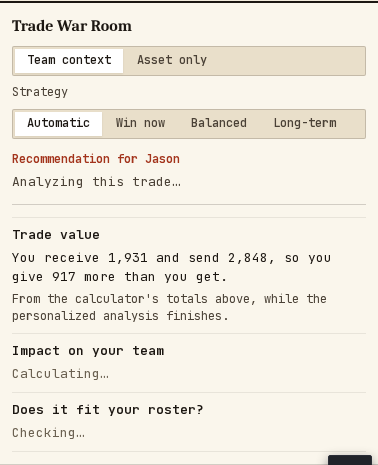
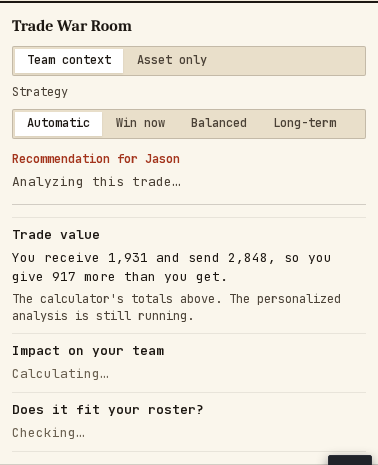
docs: War Room clarity screenshots and ledger after the review fixes
Claude-Session: https://claude.ai/code/session_014i32om8NBcCJA9qgHBoHLi

Changed region(s): [[0.0291, 0.6323, 0.6402, 0.6925], [0.6693, 0.6323, 0.9021, 0.6624]]

diff --git a/docs/ui/UI_PARALLEL_LEDGER.md b/docs/ui/UI_PARALLEL_LEDGER.md
@@ -61,7 +61,7 @@ its old open claim is not an active writer, but independent live overlaps still 
 | `shell / nav / command` | C8-U2/U3 | AppShell, AppShellWrapper, nav-model, auth owner | Existing shared IA; serving files overlap | AUDITED — Top/mobile chrome PSI-scoped | Code inspected; NV | Parity NV | Existing suite; route NV | NM | Retirement not re-certified | No fresh production screenshots | No active writer (#1346 closed unmerged) | One IA; auth and public/private boundaries | Re-certify focus/search/mobile parity; separately claim shared fixes |
 | `/rankings` | C8-U2 reference | useApp/useDynastyData -> canonical /api/data | Existing consumer; #1411 merged, #1346 closed unmerged (was "#1411/#1346 upstream changes") | DEPLOYED (#1520 `20d1d3c0d`, 2026-09-30; production NV) — was FEATURE_GREEN (local) on `claude/ui-rankings-player-reference`: expanded audit row migrated off legacy dark palette, mobile Value on-screen at 390, retired confidence/λ·MAD copy replaced, board-built vs scrape clocks, "none" ≠ Low, value explainers (lib/value-explainers.js) | Local 1366x900 before/after screenshots (`docs/psi/evidence/C8U2_RANKINGS_PLAYER_2026-09-29/`); production NV | Local 390x844: table fits (Value x=315–383, was x=497), expanded row wraps; production NV | Local axe 0 on populated board, EXPANDED row (was 283/217 contrast nodes) and How-rankings-work dialog (was scrollable-region-focusable); keyboard row expand/InfoTip/dialog walkthrough; psi-rankings-player-a11y + mobile-touch-targets 16/16 locally; #1438 CI evidence stands; row `aria-expanded` missing (DataTable-owned, reported) | NM (bundle 60.4/75 KB) | `source-audit-*` / `rankings-audit-row` paint in globals.css now has no rankings consumer — retirement pending globals.css custodian | Local only; no production screenshots | #1520 merged `20d1d3c0d` (was branch `claude/ui-rankings-player-reference`, PR pending); #1438 merged | Stable consumer boundary; no valuation duplication | Integration + deploy + production re-certification; DataTable row aria-expanded (perf/DS lane) |
 | `/players/[playerId]` | C8-U2 reference | Canonical AppShell rows / player identity + player-file-model | Existing contract; next feature boundary needs audit | DEPLOYED (#1520 `20d1d3c0d`; #1578 `2baaafb5f`; production NV) — was FEATURE_GREEN (local) on the same branch: value chain ends on the published value (offense no longer shows the IDPTC anchor diagnostic), non-voting KTC keys out of the breakdown with KTC Market as a named benchmark, Confidence tile always rendered + "Why this confidence" (backend axes/reasons), per-source freshness (weight here, content-as-of vs last fetched), off-cap rank labelled display order, "How values work" dialog | Local 1366x900 screenshots (Overview/Market/Performance/Intel); production NV | Local 390x844 full-page Overview + Market; production NV | Local axe 0 on all tabs incl. new Market freshness panel + open InfoTip, both viewports; #1438 matrix 16/16 locally; production NV | NM | Retirement not re-certified | Local only; no production screenshots | #1520 merged `20d1d3c0d` (was branch `claude/ui-rankings-player-reference`, PR pending); #1438 merged. Lane 6 / #1555 Batch 2: `claude/lane6-explanation-ui` (merged #1578 `2baaafb5f`; backend #1576 `149b5b250`) adds the collapsed, lazily loaded "How this value was computed" Market-tab panel rendering value-explain/v2 (estimator, exact-vs-approximate attribution, per-source fetch / as-of / confirmed-change clocks with explicit unknowns, exclusion reasons, non-additive leave-one-out); Signals seam: #1572 merged `a1933e596` | One player experience; preserve identity | Integration + deploy + production re-certification |
-| `/trade` | C3 + C8-U2 | Existing trade-logic + /api/trade/* canonical owners | CONDITIONAL: #1414/#1415 lifecycle/quantity/analysis | FEATURE_GREEN (local, War Room clarity on `claude/trade-war-room-clarity`, PR #1827 stacked on TC-E #1824; not merged, production NV) — owner directive 2026-10-19 Part 1 + Part 4 frontend: plain-English War Room (the backend decision is the only recommendation; two backend reasons; Trade value / Impact on your team / Does it fit your roster?; detail behind four rule-drawn disclosures; no all-caps labels; the legacy global `th` rule neutralised in the War Room tables), calculator trade value shown at once while the analysis runs (never a provisional YES / NO), immediate stale-request abort, 90 s bound with Retry, 3+-team notice owned by the War Room; default War Room height 1,253 → 638 px at 1366 and 1,620 → 885 px at 390 on the same payload; before/after in `docs/trade/war-room-clarity-2026-10-19/`. Before that: FEATURE_GREEN (local, TC-E on `claude/trade-calculator-tc-e`, PR to main; not merged, production NV) — keyboard combobox builder, shared focus ring on the active option / search input / section nav, More + Import return focus, meter and verdict screen-reader semantics, one polite final-decision announcement (design choice), error-with-retry / partial / loading states, request sequencing on every /trade read; `/trade` 82.2 → 86.7 KB of 93; populated-trade axe in `trade-tce.spec.js` (desktop + phone). Before that: FEATURE_GREEN (local, TC-D2 on `claude/trade-calculator-tc-b2-d2`, PR stacked on train 8 #1809; not merged, production NV) — phone builder bottom sheets (ds Drawer re-anchored), toolbar "More" group, Supporting-intelligence drilldown tabs (Value / Roster / Season / Market / Reasoning), Simulate impact in the Roster tab, persistent 3+-team summary, routed asset rows wrap instead of clipping names on phones, Second Opinions "Unavailable — reason" rows (owner decision 9), "My league" control removed; before/after 1440x900 + 375x812 in `docs/trade/tc-d2-2026-10-18/`; 1920 cap = OWNER UI DECISION (no wide-shell token), FAB overlap = shell lane. Before that: FEATURE_GREEN (local, TC-D1 `ecbde07821` on `claude/trade-calculator-tc-d`, stacked on TC-B #1800; not merged, production NV) — five-layer workspace: builder → immediate result (DataTable raw/VA/adjusted + meter) → War Room → supporting intelligence → ideas & tools; desktop sticky result + decision echo; mobile section nav, quick-add in flow, verdict bar carries the War Room decision word. Was: AUDITED — PSI code; #1294 merged September 9 | Local real-stack Playwright 1366x900 / 1024x768 / 1920x1080 before/after screenshots (session scratchpad, not committed); decision echo at y=639 at 1366x900 (War Room headline was y=877, meter y=1,917); no horizontal scroll; production NV. Was: Code inspected; NV | Local real-stack 390x844 / 360x780 screenshots; no horizontal scroll; fixed chrome 219 px (was 235: quick-add no longer sticky, sticky 44 px section nav added); production NV. Was: Parity NV | trade-war-room-clarity.spec axe (WCAG 2.0/2.1 A + AA, War Room region, every disclosure open) PASS on desktop-1366 + mobile-chromium locally; no sideways scroll at 1366 / 390 / 375; 6 local runs x 8 War Room / TC-E specs, `--retries=0`, all green. Before that: trade-war-room.spec axe (WCAG 2.1 AA, War Room region) PASS on desktop-1366 + mobile-chromium locally; section-nav / verdict-bar targets 44 px (CSS pinned by test); full-page axe NM. Was: Existing suite; route NV | /trade page chunk 86.8 → 86.1 KB of 93 KB; War Room lazy chunk 21.3 → 33.0 KB raw (6.7 → 10.8 KB gzip), prefetched on mount, outside the page budget. Before that: /trade page chunk 91.7 → 77.9 KB of 93 KB (War Room split to React.lazy, prefetched on mount); production NM. Was: NM | Retirement not re-certified | No fresh production screenshots | War Room clarity `claude/trade-war-room-clarity` (PR #1827, stacked on #1824; merge-clean with dual-VA #1826); TC-D1 `claude/trade-calculator-tc-d` (PR stacked on #1800); #1441 merged `53109028c` (asset identity/quantity); #1439 merged `439d03850` (NFL exposure section, context-only); #1442 pick lifecycle merged `bfdb238d8` (was open); #1619 quantity + Early/Mid/Late picks merged `bf326ed92`; #1642 Wave B Trade War Room / topology merged `0fbd5d472` | Per-unit canonical asset/analysis contract | Analyze Trade wiring (C3-CALC-01 end state) + production screenshots; exposure/quantity UI not production-verified |
+| `/trade` | C3 + C8-U2 | Existing trade-logic + /api/trade/* canonical owners | CONDITIONAL: #1414/#1415 lifecycle/quantity/analysis | FEATURE_GREEN (local, War Room clarity on `claude/trade-war-room-clarity`, PR #1827 stacked on TC-E #1824; not merged, production NV) — owner directive 2026-10-19 Part 1 + Part 4 frontend: plain-English War Room (the backend decision is the only recommendation; two backend reasons; Trade value / Impact on your team / Does it fit your roster?; detail behind four rule-drawn disclosures; no all-caps labels; the legacy global `th` rule neutralised in the War Room tables), calculator trade value shown at once while the analysis runs (never a provisional YES / NO), immediate stale-request abort, 90 s bound with Retry, 3+-team notice owned by the War Room; default War Room height 1,253 → 656 px at 1366 and 1,620 → 904 px at 390 on the same payload; before/after in `docs/trade/war-room-clarity-2026-10-19/`. Before that: FEATURE_GREEN (local, TC-E on `claude/trade-calculator-tc-e`, PR to main; not merged, production NV) — keyboard combobox builder, shared focus ring on the active option / search input / section nav, More + Import return focus, meter and verdict screen-reader semantics, one polite final-decision announcement (design choice), error-with-retry / partial / loading states, request sequencing on every /trade read; `/trade` 82.2 → 86.7 KB of 93; populated-trade axe in `trade-tce.spec.js` (desktop + phone). Before that: FEATURE_GREEN (local, TC-D2 on `claude/trade-calculator-tc-b2-d2`, PR stacked on train 8 #1809; not merged, production NV) — phone builder bottom sheets (ds Drawer re-anchored), toolbar "More" group, Supporting-intelligence drilldown tabs (Value / Roster / Season / Market / Reasoning), Simulate impact in the Roster tab, persistent 3+-team summary, routed asset rows wrap instead of clipping names on phones, Second Opinions "Unavailable — reason" rows (owner decision 9), "My league" control removed; before/after 1440x900 + 375x812 in `docs/trade/tc-d2-2026-10-18/`; 1920 cap = OWNER UI DECISION (no wide-shell token), FAB overlap = shell lane. Before that: FEATURE_GREEN (local, TC-D1 `ecbde07821` on `claude/trade-calculator-tc-d`, stacked on TC-B #1800; not merged, production NV) — five-layer workspace: builder → immediate result (DataTable raw/VA/adjusted + meter) → War Room → supporting intelligence → ideas & tools; desktop sticky result + decision echo; mobile section nav, quick-add in flow, verdict bar carries the War Room decision word. Was: AUDITED — PSI code; #1294 merged September 9 | Local real-stack Playwright 1366x900 / 1024x768 / 1920x1080 before/after screenshots (session scratchpad, not committed); decision echo at y=639 at 1366x900 (War Room headline was y=877, meter y=1,917); no horizontal scroll; production NV. Was: Code inspected; NV | Local real-stack 390x844 / 360x780 screenshots; no horizontal scroll; fixed chrome 219 px (was 235: quick-add no longer sticky, sticky 44 px section nav added); production NV. Was: Parity NV | trade-war-room-clarity.spec axe (WCAG 2.0/2.1 A + AA, War Room region, every disclosure open) PASS on desktop-1366 + mobile-chromium locally; no sideways scroll at 1366 / 390 / 375; 10 local runs x 8 War Room / TC-E specs, `--retries=0`, all green (4 after the review fixes: exact headline totals for the immediate summary, plain-English confidence, no second verdict). Before that: trade-war-room.spec axe (WCAG 2.1 AA, War Room region) PASS on desktop-1366 + mobile-chromium locally; section-nav / verdict-bar targets 44 px (CSS pinned by test); full-page axe NM. Was: Existing suite; route NV | /trade page chunk 86.3 KB of 93 KB after merging TC-E 18eb2f475d (86.8 → 86.1 KB on the earlier base); War Room lazy chunk 21.3 → 35.7 KB raw (6.7 → 11.6 KB gzip), prefetched on mount, outside the page budget. Before that: /trade page chunk 91.7 → 77.9 KB of 93 KB (War Room split to React.lazy, prefetched on mount); production NM. Was: NM | Retirement not re-certified | No fresh production screenshots | War Room clarity `claude/trade-war-room-clarity` (PR #1827, stacked on #1824; merge-clean with dual-VA #1826); TC-D1 `claude/trade-calculator-tc-d` (PR stacked on #1800); #1441 merged `53109028c` (asset identity/quantity); #1439 merged `439d03850` (NFL exposure section, context-only); #1442 pick lifecycle merged `bfdb238d8` (was open); #1619 quantity + Early/Mid/Late picks merged `bf326ed92`; #1642 Wave B Trade War Room / topology merged `0fbd5d472` | Per-unit canonical asset/analysis contract | Analyze Trade wiring (C3-CALC-01 end state) + production screenshots; exposure/quantity UI not production-verified |
 | `/finder / /arbitrage / /trades` | C3 + C8-U2 | Existing finder/package/history owners; trace each endpoint | NOT re-certified | AUDITED — Mixed DS/legacy and redirects | Code inspected; NV | Parity NV | Existing suite; route NV | NM | Retirement not re-certified | No fresh production screenshots | No active writer (#1346 closed unmerged) | C3 package/identity/decision substrate | Audit destinations and reuse shared asset/result primitives |
 | `/market/* / Sharp / Insider` | C4 + C8-U2 | Existing market/Sharp canonical endpoints | Existing consumers; freshness semantics changed | AUDITED — Partial DS/PSI family migration | Code inspected; NV | Parity NV | Existing suite; route NV | NM | Retirement not re-certified | No fresh production screenshots | No active writer (#1346 closed unmerged) | Source/market separation; no frontend verdict engine | Reference fidelity, honest coverage and mobile proof |
 | `/rosters` | C2 + C8-U2 | /api/roster/intelligence -> src/roster_intel/strength.py | Existing consumer; serving overlap | AUDITED — DS-backed; not PSI-certified | Code inspected; NV | Parity NV | Existing suite; route NV | NM | Retirement not re-certified | No fresh production screenshots | No active writer (#1346 closed unmerged) | Canonical strength/league state | Shared table/identity and roster-context parity |
